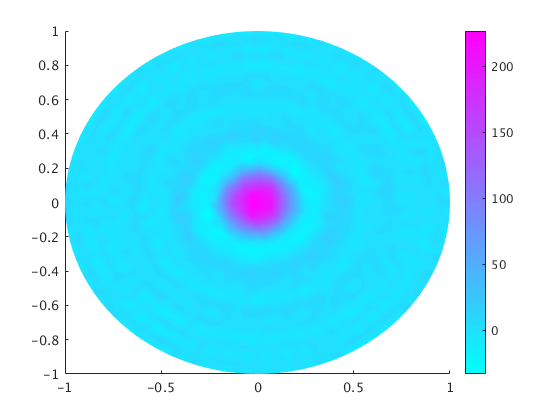
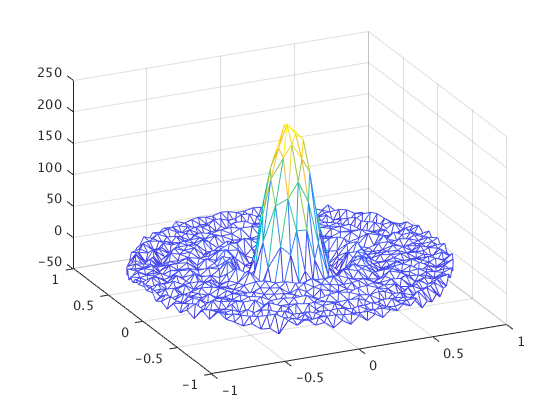
Final thesis version

diff --git a/programs/finite_element_method/src/generate_fundamental_solution_derivative.m b/programs/finite_element_method/src/generate_fundamental_solution_derivative.m
@@ -1,5 +1,5 @@
 END_TIME = 1;
-SPACE_BASIS_FUNCTION_COUNT = 1;
+SPACE_BASIS_FUNCTION_COUNT = 4;
 TARGET_POINT_X = 0;
 TARGET_POINT_Y = 0;
 TIME_BASIS_FUNCTION_COUNT = 8;
@@ -51,22 +51,22 @@ connectionMatrix = ...
 
 distanceX = model.Mesh.Nodes(1,:)-TARGET_POINT_X;
 distanceY = model.Mesh.Nodes(2,:)-TARGET_POINT_Y;
-absoluteValueOfFundamentalSolutionDerivative = ...
-    transpose(abs(2*distanceX.*distanceY./(distanceX.^2+distanceY.^2).^2));
+fundamentalSolutionDerivative = ...
+    transpose(2*distanceX.*distanceY./(distanceX.^2+distanceY.^2).^2);
 
 borderControlBasisCoefficients = ...
     pinv(connectionMatrix) ...
     *transpose(solutions) ...
     *finiteElementMatrices.M ...
-    *absoluteValueOfFundamentalSolutionDerivative;
+    *fundamentalSolutionDerivative;
 
-WaveAbsoluteValueOfFundamentalSolutionDerivative = ...
+WaveFundamentalSolutionDerivative = ...
     solutions*borderControlBasisCoefficients;
 
 tri = delaunay(model.Mesh.Nodes(1,:),model.Mesh.Nodes(2,:));
 trimesh(tri, ...
     model.Mesh.Nodes(1,:),model.Mesh.Nodes(2,:), ...
-    WaveAbsoluteValueOfFundamentalSolutionDerivative)
+    WaveFundamentalSolutionDerivative)
 
 
 function result = neumanControl(location,spaceBasisFunctionIndex, ...
